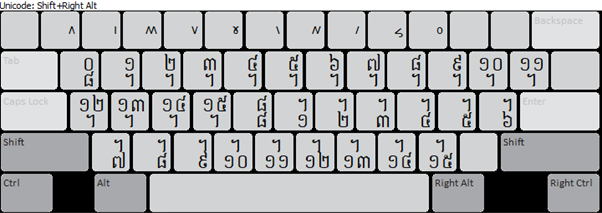
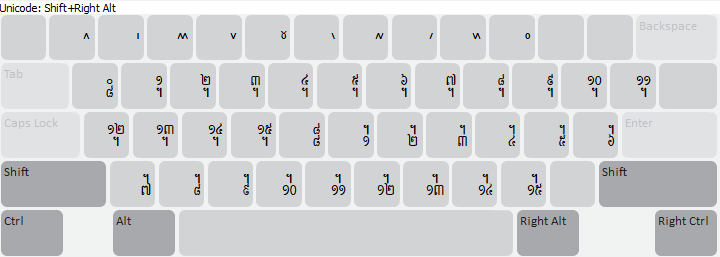
update OSK

Changed region(s): [[0.0, 0.0, 1.0, 1.0]]

diff --git a/release/k/khmer_angkor/HISTORY.md b/release/k/khmer_angkor/HISTORY.md
@@ -1,6 +1,10 @@
 Khmer Angkor Change History
 =======================
 
+1.3 (19 Jul 2022)
+----------------------
+* update OSK in the documentation and bump version number
+
 1.2 (3 Mar 2022)
 ----------------------
 * fix BA issue with 17BB

diff --git a/release/k/khmer_angkor/README.md b/release/k/khmer_angkor/README.md
@@ -3,7 +3,7 @@ Khmer Angkor keyboard
 
 Copyright (C) 2015-2022 SIL International
 
-Version 1.2
+Version 1.3
 
 Description
 -----------
